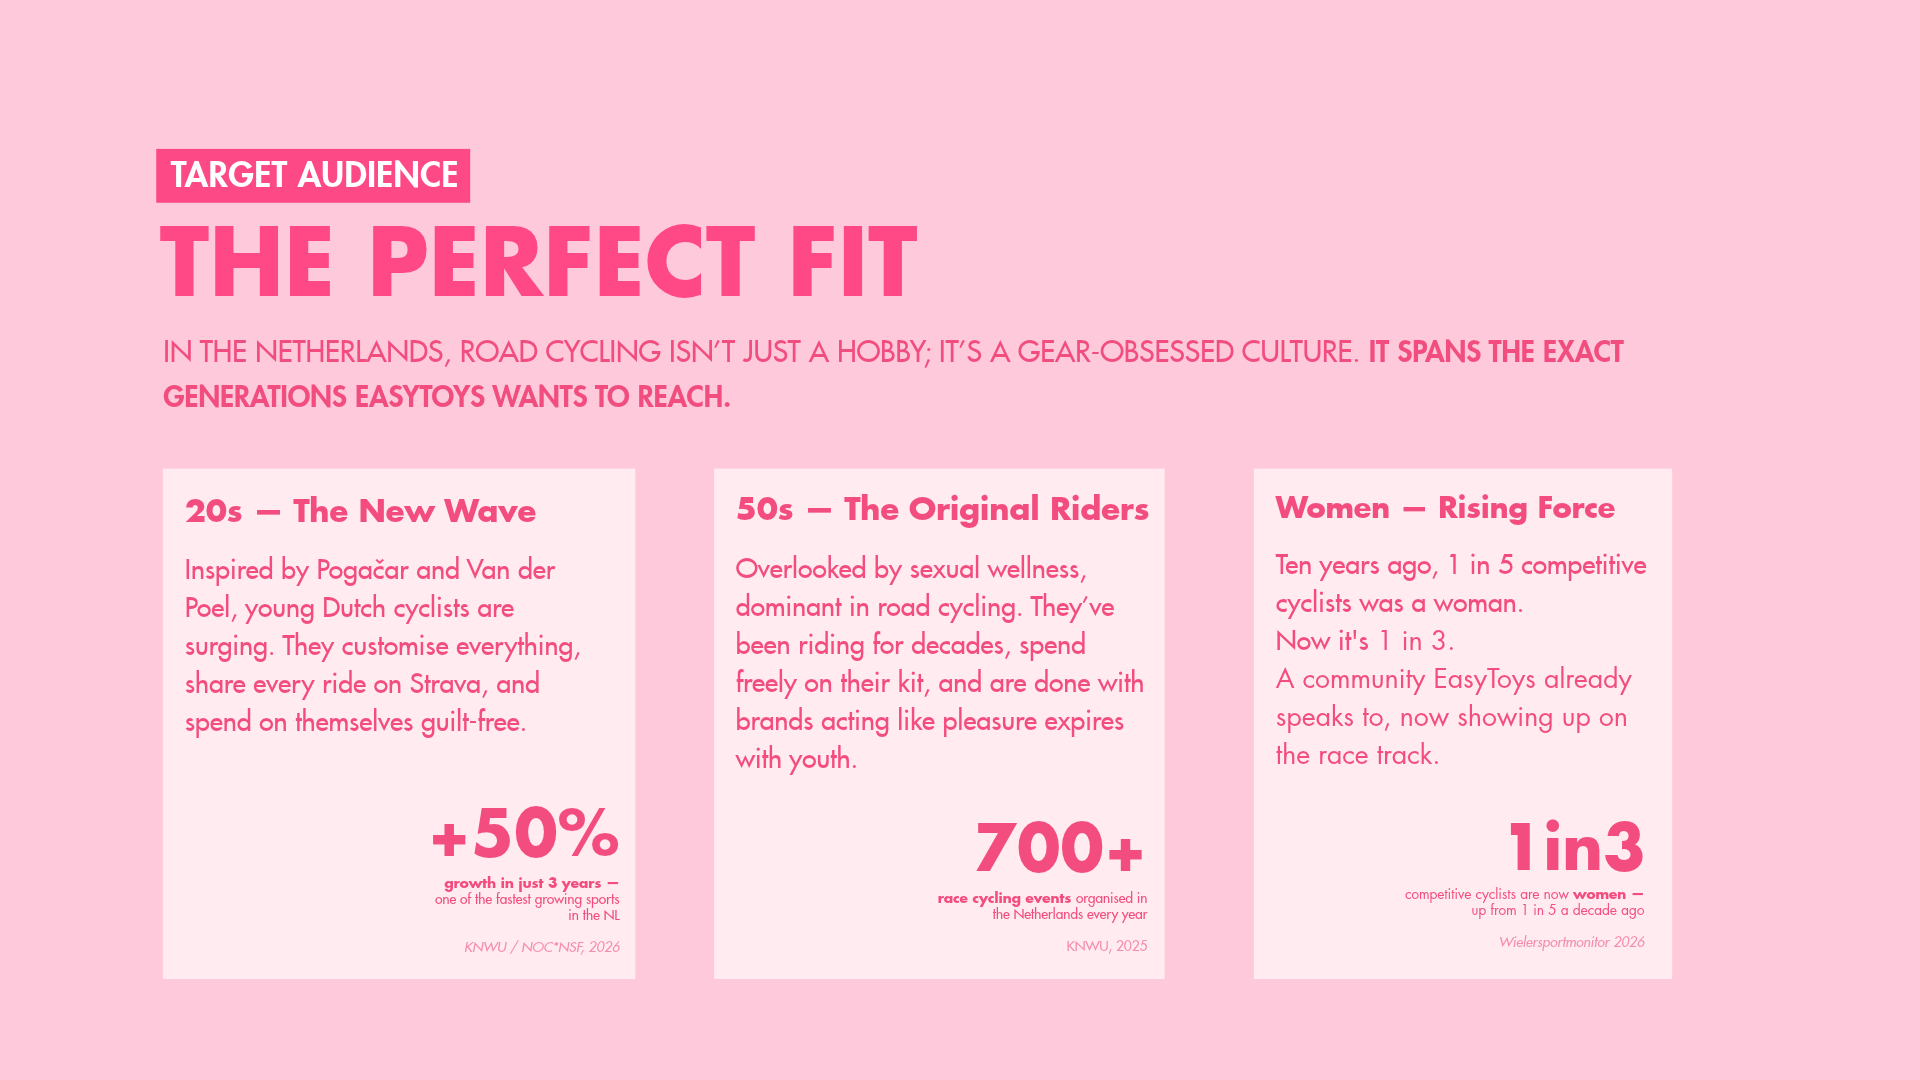
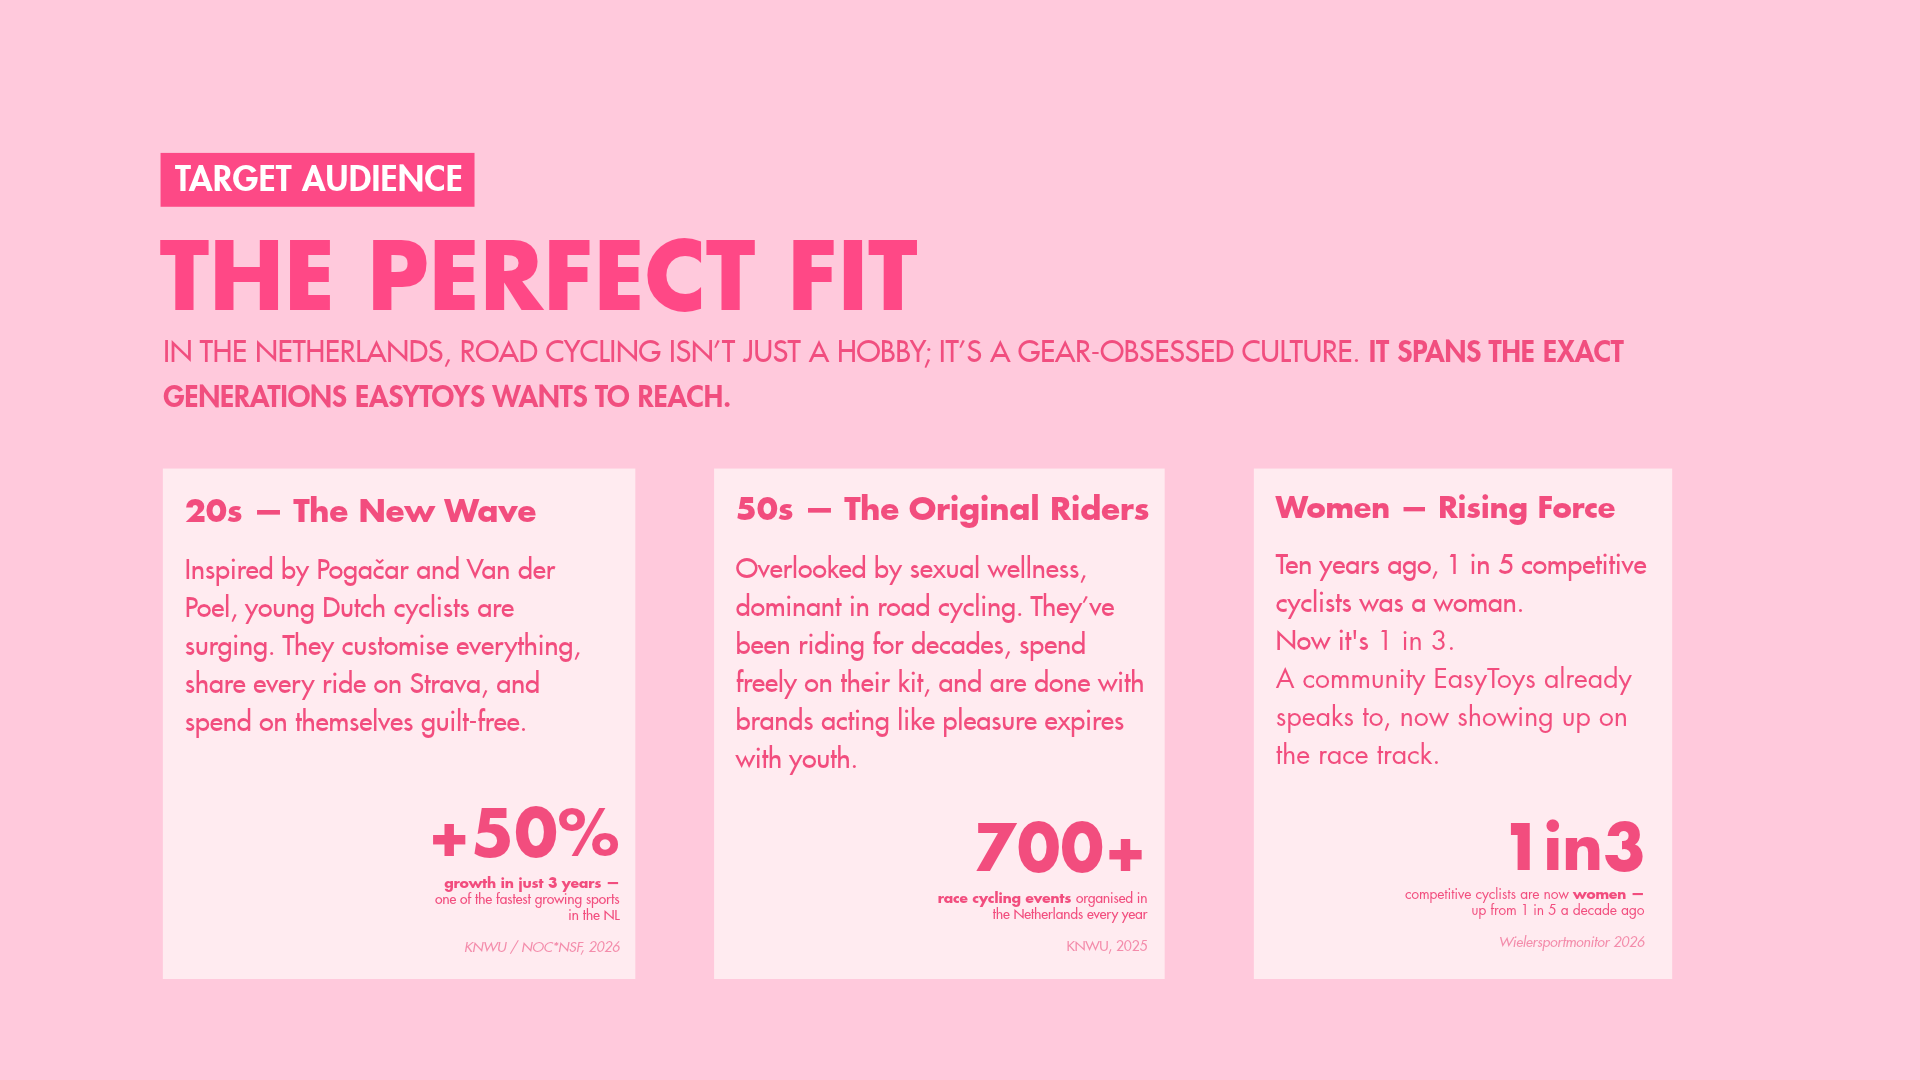
Add files via upload

Changed region(s): [[0.0625, 0.1222, 0.5, 0.3056]]

diff --git a/easyride.html b/easyride.html
@@ -324,7 +324,6 @@
 <style>
   /* review tweaks */
   @media (min-width:761px){
-    .reveal p:first-child span:first-child{ font-weight:500; }   /* "But first," no extra weight on laptop */
     .deck-grid-section{ padding-top:0; }                         /* "(tap to make bigger)" closer to the text above */
     .deck-hint{ margin-top:14px; }
     .credit{ margin-bottom:56px; }                               /* more space above "more work" */
@@ -339,10 +338,24 @@
   .title-link{ color:inherit; text-decoration:none; transition:color 0.2s ease; }
   .title-link:hover{ color:var(--pink); }
   .project-subtitle{ font-size:clamp(16px, 1.8vw, 20px); }
+  .project-subtitle .pink-word{ color:var(--pink); text-decoration:none; transition:opacity 0.2s ease; }
+  .project-subtitle .pink-word:hover{ opacity:0.7; }
   @media (min-width:761px){ .credit{ margin-bottom:24px; } }
   @media (max-width:760px){ .credit{ margin-bottom:18px; } }
   /* hero: the old intro text used to sit above the bike and made the road band taller; this space restores that, so the road fills the whole top and the bike sits lower again */
-  @media (min-width:761px){ .reveal{ font-size:19px; } }   /* laptop: slightly bigger intro text */
+  @media (min-width:761px){
+    .reveal, .reveal span{ font-size:17.5px; }                   /* laptop: the paragraphs a bit smaller than the first line */
+    .reveal span{ max-width:none; }                              /* wide enough that each sentence fits on one line */
+    /* second paragraph: one block, same width as the "You tap into a subculture..." line */
+    .reveal p:nth-child(2){ max-width:648px; margin-left:auto; margin-right:auto; transform:scaleX(1.10); transform-origin:center; text-wrap:pretty; }
+    .reveal p:nth-child(2) span{ display:inline; transform:none; }
+    .reveal p:nth-child(2) span + span::before{ content:" "; }
+    .reveal .hl{ font-weight:700; }                              /* "road cycling" a bit less bold */
+    .reveal p:first-child span:first-child{ font-size:19px; font-weight:600; max-width:none; }   /* laptop: "But first..." is the biggest */
+  }
+  .deck-hint{ display:none; }   /* no slide hints on any device */
+  @media (min-width:761px){ .deck-grid{ margin-top:56px; } }
+  @media (max-width:760px){ .deck-grid{ margin-top:12px; } }
   .hero-visual-section{ padding-top:105px; }
   @media (max-width:760px){ .hero-visual-section{ padding-top:110px; } }
 </style>
@@ -360,7 +373,7 @@
     <header class="project-header">
     <p class="project-tag">strategy + concept + design</p>
     <h1 class="project-title">EasyRide — <a class="title-link" href="https://www.easytoys.nl" target="_blank" rel="noopener">EasyToys</a> x <a class="title-link" href="https://jongehonden.nl/pitches/easytoys" target="_blank" rel="noopener">Young Dogs</a></h1>
-    <p class="project-subtitle">What do road cycling and EasyToys have in common?</p>
+    <p class="project-subtitle">What do road cycling and <a class="pink-word" href="https://www.easytoys.nl" target="_blank" rel="noopener">EasyToys</a> have in common?</p>
   </header>
   </div>
 
@@ -384,7 +397,7 @@
   </section>
 
   <div class="deck-grid-section">
-    <p class="deck-hint"><span class="hint-d">(tap to make bigger)</span><span class="hint-m">(swipe through the slides; turn the phone for a better read)</span></p>
+    <p class="deck-hint"></p>
     <div class="deck-grid" id="deckGrid">
       <div class="deck-grid-item"><img loading="lazy" decoding="async" src="slide-insight.png" alt="Insight slide: You don’t need it. Until you do. Real Reddit threads from cyclists and from people talking about vibrators."><p class="deck-cap">The insight: Nobody <em>needs</em> the upgrade but nobody wants to go back.</p></div>
       <div class="deck-grid-item"><img loading="lazy" decoding="async" src="slide-audience.png" alt="Target audience slide: the perfect fit, 20s, 50s and women riders"><p class="deck-cap">Dutch audience, that already spends on feeling better: 20s, 50s, and women</p></div>
